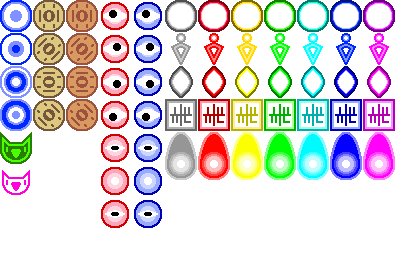
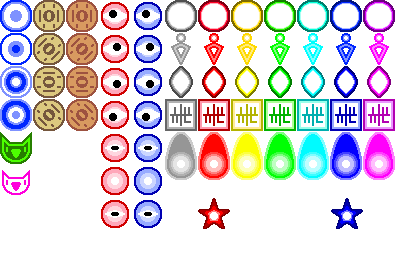
Added Reb/Blue stars

Changed region(s): [[0.8182, 0.7576, 0.9394, 0.8788], [0.4848, 0.7576, 0.5758, 0.8788]]

diff --git a/game/Sprite.js b/game/Sprite.js
@@ -145,6 +145,10 @@ var SPRITE = {
             height: 2,
             rotate: true
         },
+        star: {
+            x: 5,
+            y: 6
+        },
         red: {
             x: 1
         },
